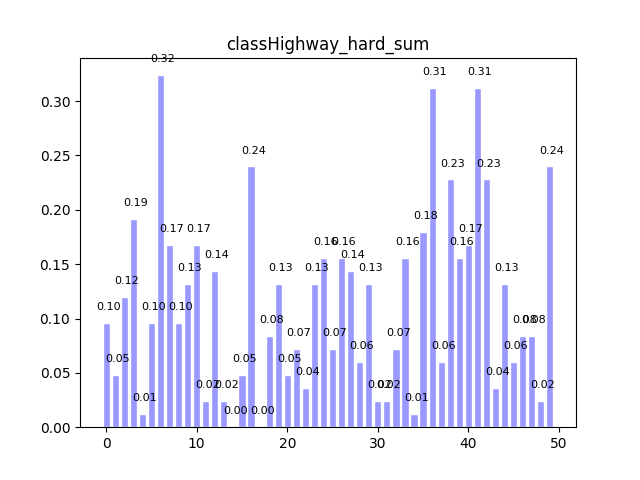
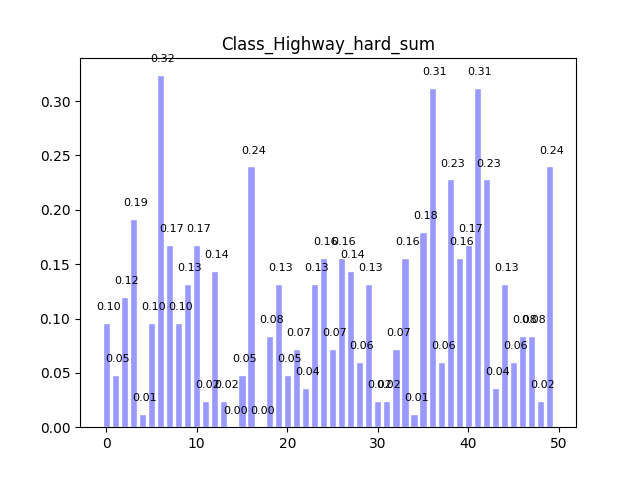
fj

Changed region(s): [[0.3438, 0.0625, 0.6875, 0.125]]

diff --git a/hw2/problem3/main.py b/hw2/problem3/main.py
@@ -10,19 +10,20 @@ dm=Datamanager()
 color=['C0', 'C1', 'C2', 'C3', 'C4', 'C5', 'C6', 'C7', 'C8', 'C9']
 
 ###############################################################
-#                    problem 3.1                              #
+#                    problem 3.a                              #
 ###############################################################
 '''
 '''
 
-dm.read_image('image','train-10/Suburb/image_0029.jpg',mode='rgb')
+pic='Suburb/image_0029'
+dm.read_image('image','train-10/{}.jpg'.format(pic),mode='rgb')
 dm.surf_detect(dm.data['image'])
-dm.surf_plot(dm.data['image'],'pic/3_1_surf029.png')
+dm.surf_plot(dm.data['image'],'Interest Point on {}'.format(pic),'pic/3_a_surf029.png')
 
 '''
 '''
 ###############################################################
-#                    problem 3.2                              #
+#                    problem 3.b                              #
 ###############################################################
 '''
 '''
@@ -39,8 +40,8 @@ dm.pca_construct(feature,3)
 x=dm.pca_transform(feature)
 #print(x,y)
 #print(x.shape,y.shape)
-y_center=np.arange(6)
 x_center=dm.pca_transform(dm.kmeans.cluster_centers_[:6])
+y_center=np.arange(6)
 #print(x_center,y_center)
 #rint(x_center.shape,y_center.shape)
 
@@ -51,13 +52,13 @@ for i in range(len(x)):
     if y[i]<6:
         ax.scatter(x[i,0],x[i,1],x[i,2],s=3,c=color[y[i]])
 for i in range(len(x_center)):
-    ax.scatter(x_center[i,0],x_center[i,1],x_center[i,2],s=10,c=color[y_center[i]])
-plt.savefig('pic/3_2pca_cluster.png')
-
+    ax.scatter(x_center[i,0],x_center[i,1],x_center[i,2],s=3,marker='v',c=color[y_center[i]])
+plt.title('Visual Words and the Associated Interest Points')
+plt.savefig('pic/3_b_pca_cluster.png')
 '''
 '''
 ###############################################################
-#                    problem 3.3                              #
+#                    problem 3.c                              #
 ###############################################################
 '''
 '''
@@ -76,17 +77,17 @@ dm.kmeans_construct(feature)
 
 mode=[('soft','max'),('soft','sum'),('hard','sum')]
 for  m in mode:
-    for j in range(5):
+    for j in range(len(train_dir_list)):
         emb=dm.embedding(data[j*10],mode=m)
-        dm.plot_bar(emb,'class{}_{}_{}'.format(train_dir_list[j],m[0],m[1]),'pic/3_3_class{}_{}_{}.png'.format(train_dir_list[j],m[0],m[1]))
+        dm.plot_bar(emb,'Class_{}_{}_{}'.format(train_dir_list[j],m[0],m[1]),'pic/3_3_class{}_{}_{}.png'.format(train_dir_list[j],m[0],m[1]))
 '''
 '''
 ###############################################################
-#                    problem 3.3                              #
+#                    problem 3.d                              #
 ###############################################################
 '''
 '''
-train_dir='train-100'
+train_dir='train-10'
 test_dir='test-100'
 train_dir_list=os.listdir(train_dir)
 test_dir_list=os.listdir(test_dir)

diff --git a/hw2/problem3/util.py b/hw2/problem3/util.py
@@ -49,13 +49,15 @@ class Datamanager:
         self.surf= surf
         kp, des = surf.detectAndCompute(data,None)
         return des
-    def surf_plot(self,image,path):
+    def surf_plot(self,image,title,path):
         surf=self.surf
         kp= surf.detect(image,None)[:30]
         img2 = cv2.drawKeypoints(image,kp,None,(255,0,0),4)
-        self.plot_image(img2,path)
-    def plot_image(self,data,path):
+        self.plot_image(img2,title,path)
+    def plot_image(self,data,title,path):
         data=data.astype(np.uint8)
+        plt.figure()
+        plt.title(title)
         plt.imshow(data)
         #plt.show()
         plt.savefig(path)
